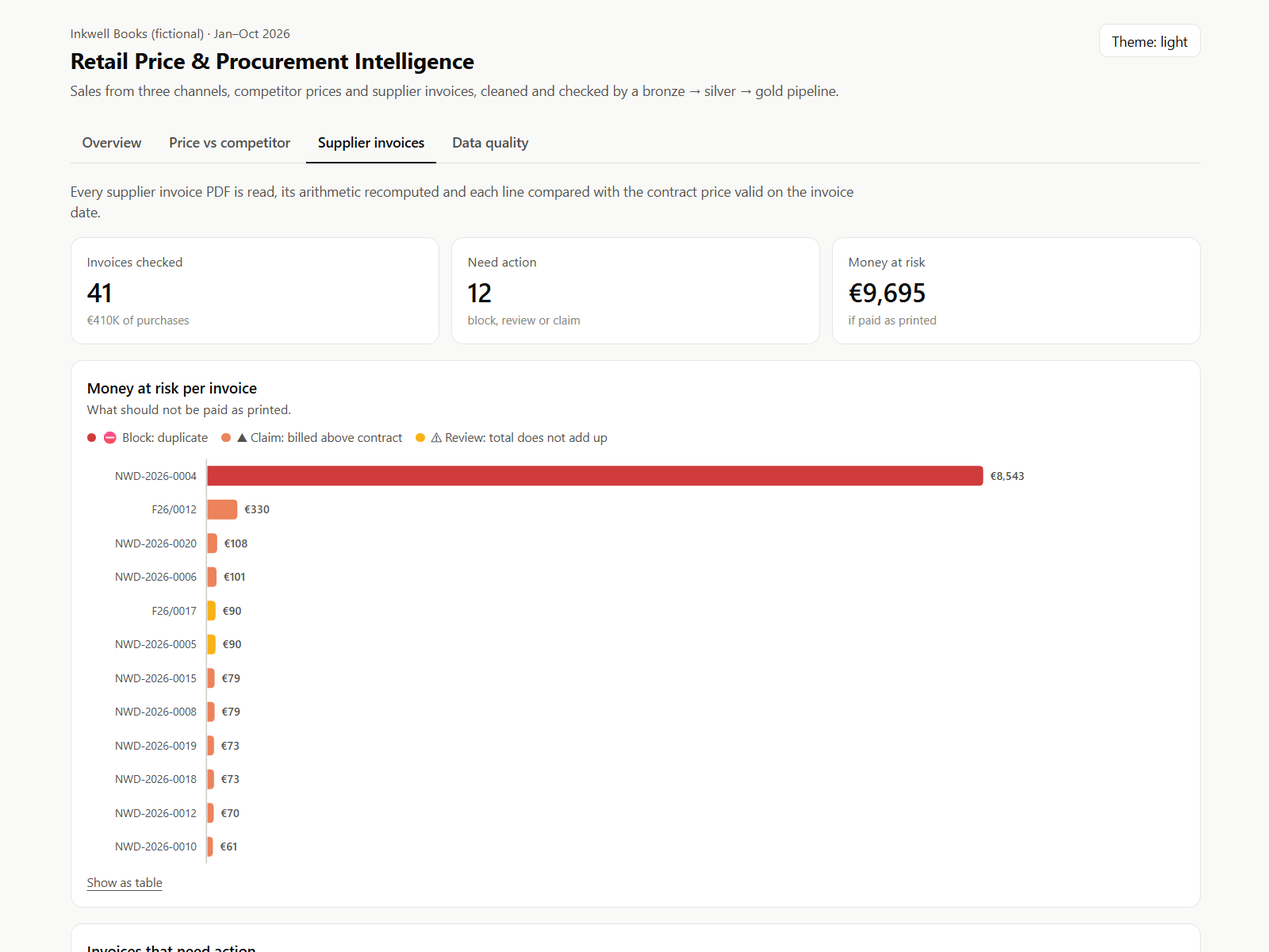
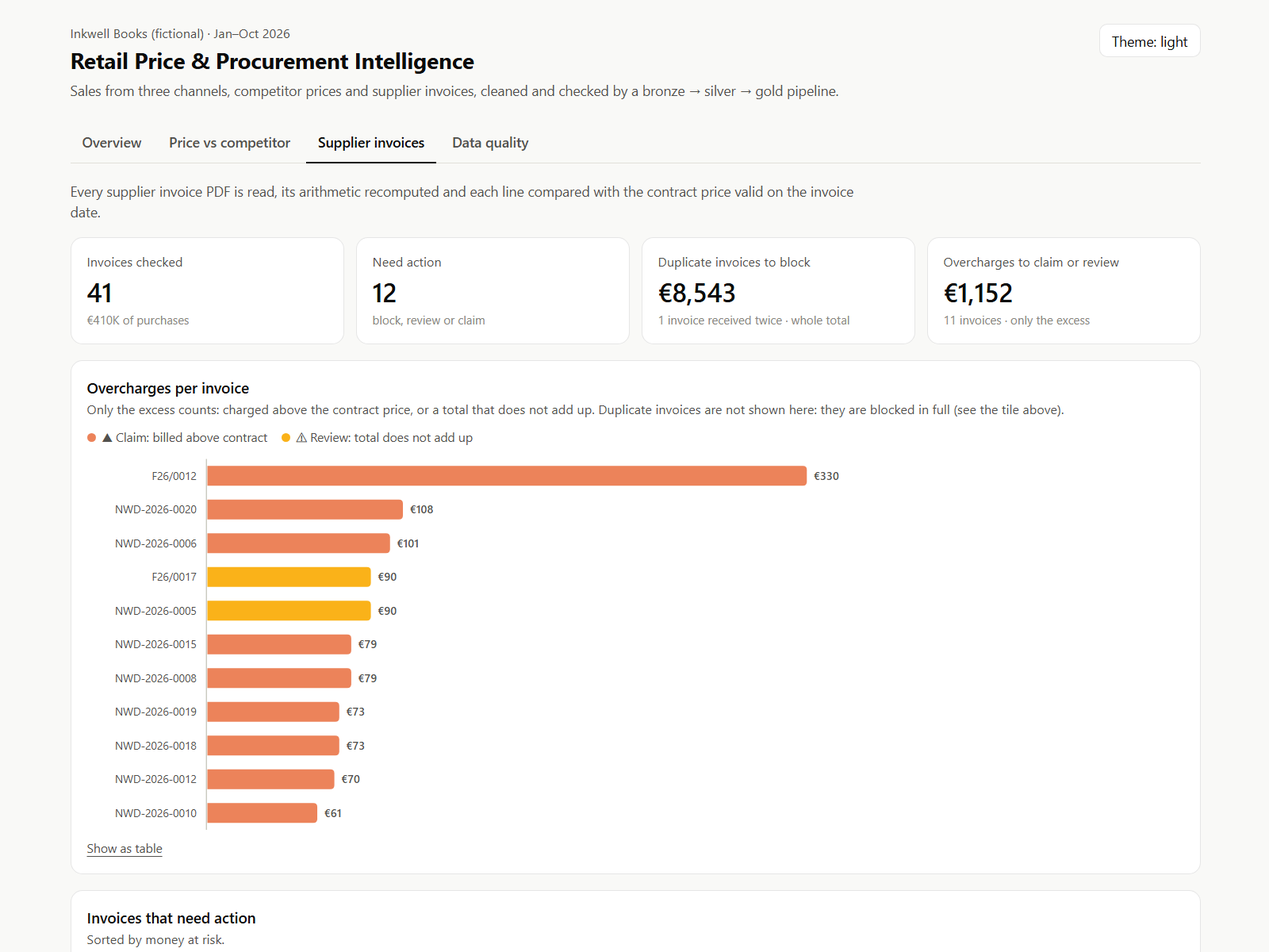
Separate duplicate invoices from overcharges in the invoices tab
A duplicate puts its whole total at risk, an overcharge only its excess; on one scale the duplicate (8,543 EUR) flattened the 11 overcharges. Duplicates now have their own tile and the chart shows only overcharges (1,152 EUR) on their own scale.

diff --git a/docs/index.html b/docs/index.html
@@ -143,8 +143,9 @@ footer { color: var(--text-muted); font-size: 12.5px; margin-top: 28px; border-t
     <p class="lead">Every supplier invoice PDF is read, its arithmetic recomputed and each line compared with the
       contract price valid on the invoice date.</p>
     <div class="tiles" id="invoiceTiles"></div>
-    <div class="card" style="margin-bottom:16px"><h2>Money at risk per invoice</h2>
-      <p class="desc">What should not be paid as printed.</p>
+    <div class="card" style="margin-bottom:16px"><h2>Overcharges per invoice</h2>
+      <p class="desc">Only the excess counts: charged above the contract price, or a total that does not add up.
+        Duplicate invoices are not shown here: they are blocked in full (see the tile above).</p>
       <div class="legend" id="legInvoices"></div><div class="chart" id="chInvoices"></div></div>
     <div class="card"><h2>Invoices that need action</h2><p class="desc">Sorted by money at risk.</p>
       <div class="table-wrap" id="tblInvoices"></div></div>
@@ -171,7 +172,7 @@ footer { color: var(--text-muted); font-size: 12.5px; margin-top: 28px; border-t
 </div>
 
 <script>
-const DATA = {"generated":"2026-11-24","months":[{"year_month":"2026-01","net_revenue_eur":123844.83,"margin_eur":46636.0,"margin_pct":0.3766,"units_sold":2821,"units_returned":20,"orders":1960,"weighted_price_gap_pct":0.0321,"purchases_eur":43999.46,"invoice_amount_at_risk_eur":0.0},{"year_month":"2026-02","net_revenue_eur":78794.21,"margin_eur":29610.55,"margin_pct":0.3758,"units_sold":1841,"units_returned":14,"orders":1292,"weighted_price_gap_pct":0.0282,"purchases_eur":36486.26,"invoice_amount_at_risk_eur":8542.9},{"year_month":"2026-03","net_revenue_eur":90779.57,"margin_eur":34181.89,"margin_pct":0.3765,"units_sold":2097,"units_returned":20,"orders":1453,"weighted_price_gap_pct":0.0105,"purchases_eur":33962.09,"invoice_amount_at_risk_eur":190.55},{"year_month":"2026-04","net_revenue_eur":117697.83,"margin_eur":41757.43,"margin_pct":0.3548,"units_sold":2839,"units_returned":35,"orders":1946,"weighted_price_gap_pct":0.0073,"purchases_eur":40551.15,"invoice_amount_at_risk_eur":79.2},{"year_month":"2026-05","net_revenue_eur":100868.1,"margin_eur":36328.92,"margin_pct":0.3602,"units_sold":2398,"units_returned":26,"orders":1665,"weighted_price_gap_pct":0.0115,"purchases_eur":39393.7,"invoice_amount_at_risk_eur":60.5},{"year_month":"2026-06","net_revenue_eur":85634.14,"margin_eur":30569.54,"margin_pct":0.357,"units_sold":2032,"units_returned":19,"orders":1429,"weighted_price_gap_pct":0.0103,"purchases_eur":35794.82,"invoice_amount_at_risk_eur":399.94},{"year_month":"2026-07","net_revenue_eur":110920.63,"margin_eur":37993.24,"margin_pct":0.3425,"units_sold":2588,"units_returned":37,"orders":1764,"weighted_price_gap_pct":-0.0101,"purchases_eur":40670.2,"invoice_amount_at_risk_eur":0.0},{"year_month":"2026-08","net_revenue_eur":123659.66,"margin_eur":40404.46,"margin_pct":0.3267,"units_sold":2931,"units_returned":24,"orders":1979,"weighted_price_gap_pct":-0.0279,"purchases_eur":48105.24,"invoice_amount_at_risk_eur":79.2},{"year_month":"2026-09","net_revenue_eur":104201.21,"margin_eur":33814.52,"margin_pct":0.3245,"units_sold":2489,"units_returned":25,"orders":1732,"weighted_price_gap_pct":-0.033,"purchases_eur":46334.51,"invoice_amount_at_risk_eur":162.6},{"year_month":"2026-10","net_revenue_eur":110194.85,"margin_eur":36020.14,"margin_pct":0.3269,"units_sold":2655,"units_returned":35,"orders":1809,"weighted_price_gap_pct":-0.0288,"purchases_eur":44397.8,"invoice_amount_at_risk_eur":180.25}],"channel_months":[{"year_month":"2026-01","channel":"marketplace","net_revenue_eur":38753.31,"margin_eur":10776.14,"units":869},{"year_month":"2026-01","channel":"store","net_revenue_eur":20755.81,"margin_eur":8854.57,"units":469},{"year_month":"2026-01","channel":"web","net_revenue_eur":64335.71,"margin_eur":27005.29,"units":1463},{"year_month":"2026-02","channel":"marketplace","net_revenue_eur":24334.73,"margin_eur":6748.25,"units":577},{"year_month":"2026-02","channel":"store","net_revenue_eur":12156.37,"margin_eur":5117.66,"units":263},{"year_month":"2026-02","channel":"web","net_revenue_eur":42303.11,"margin_eur":17744.64,"units":987},{"year_month":"2026-03","channel":"marketplace","net_revenue_eur":27262.2,"margin_eur":7476.56,"units":630},{"year_month":"2026-03","channel":"store","net_revenue_eur":13842.89,"margin_eur":5865.77,"units":311},{"year_month":"2026-03","channel":"web","net_revenue_eur":49674.48,"margin_eur":20839.56,"units":1136},{"year_month":"2026-04","channel":"marketplace","net_revenue_eur":36206.51,"margin_eur":9231.78,"units":849},{"year_month":"2026-04","channel":"store","net_revenue_eur":17717.78,"margin_eur":7188.44,"units":422},{"year_month":"2026-04","channel":"web","net_revenue_eur":63773.54,"margin_eur":25337.21,"units":1533},{"year_month":"2026-05","channel":"marketplace","net_revenue_eur":29557.14,"margin_eur":7646.32,"units":686},{"year_month":"2026-05","channel":"store","net_revenue_eur":15544.41,"margin_eur":6410.67,"units":359},{"year_month":"2026-05","channel":"web","net_revenue_eur":55766.55,"margin_eur":22271.93,"units":1327},{"year_month":"2026-06","channel":"marketplace","net_revenue_eur":25014.12,"margin_eur":6416.56,"units":588},{"year_month":"2026-06","channel":"store","net_revenue_eur":12779.56,"margin_eur":5188.2,"units":294},{"year_month":"2026-06","channel":"web","net_revenue_eur":47840.46,"margin_eur":18964.78,"units":1131},{"year_month":"2026-07","channel":"marketplace","net_revenue_eur":34006.19,"margin_eur":8260.63,"units":781},{"year_month":"2026-07","channel":"store","net_revenue_eur":14883.75,"margin_eur":5830.27,"units":325},{"year_month":"2026-07","channel":"web","net_revenue_eur":62030.69,"margin_eur":23902.34,"units":1445},{"year_month":"2026-08","channel":"marketplace","net_revenue_eur":37790.74,"margin_eur":8575.06,"units":876},{"year_month":"2026-08","channel":"store","net_revenue_eur":18844.53,"margin_eur":7044.61,"units":447},{"year_month":"2026-08","channel":"web","net_revenue_eur":67024.39,"margin_eur":24784.79,"units":1584},{"year_month":"2026-09","channel":"marketplace","net_revenue_eur":32732.7,"margin_eur":7420.62,"units":780},{"year_month":"2026-09","channel":"store","net_revenue_eur":16181.77,"margin_eur":6075.75,"units":373},{"year_month":"2026-09","channel":"web","net_revenue_eur":55286.74,"margin_eur":20318.15,"units":1311},{"year_month":"2026-10","channel":"marketplace","net_revenue_eur":32815.2,"margin_eur":7328.06,"units":780},{"year_month":"2026-10","channel":"store","net_revenue_eur":16842.01,"margin_eur":6313.41,"units":399},{"year_month":"2026-10","channel":"web","net_revenue_eur":60537.64,"margin_eur":22378.67,"units":1441}],"weekly_gap":[{"week_start":"2026-01-05","gap":0.029,"units":645},{"week_start":"2026-01-12","gap":0.0323,"units":619},{"week_start":"2026-01-19","gap":0.0315,"units":629},{"week_start":"2026-01-26","gap":0.0358,"units":607},{"week_start":"2026-02-02","gap":0.0354,"units":475},{"week_start":"2026-02-09","gap":0.0256,"units":439},{"week_start":"2026-02-16","gap":0.0313,"units":474},{"week_start":"2026-02-23","gap":0.0195,"units":440},{"week_start":"2026-03-02","gap":0.0139,"units":489},{"week_start":"2026-03-09","gap":0.0132,"units":508},{"week_start":"2026-03-16","gap":0.0056,"units":459},{"week_start":"2026-03-23","gap":0.0227,"units":461},{"week_start":"2026-03-30","gap":0.0,"units":606},{"week_start":"2026-04-06","gap":-0.0014,"units":689},{"week_start":"2026-04-13","gap":0.0079,"units":636},{"week_start":"2026-04-20","gap":0.0083,"units":681},{"week_start":"2026-04-27","gap":0.0152,"units":630},{"week_start":"2026-05-04","gap":0.0114,"units":491},{"week_start":"2026-05-11","gap":0.0217,"units":546},{"week_start":"2026-05-18","gap":0.0016,"units":508},{"week_start":"2026-05-25","gap":0.0107,"units":557},{"week_start":"2026-06-01","gap":0.0225,"units":483},{"week_start":"2026-06-08","gap":0.0297,"units":469},{"week_start":"2026-06-15","gap":0.0122,"units":446},{"week_start":"2026-06-22","gap":-0.0072,"units":504},{"week_start":"2026-06-29","gap":-0.0023,"units":556},{"week_start":"2026-07-06","gap":-0.0113,"units":600},{"week_start":"2026-07-13","gap":-0.0063,"units":610},{"week_start":"2026-07-20","gap":-0.0045,"units":587},{"week_start":"2026-07-27","gap":-0.0182,"units":614},{"week_start":"2026-08-03","gap":-0.0215,"units":679},{"week_start":"2026-08-10","gap":-0.0269,"units":659},{"week_start":"2026-08-17","gap":-0.0309,"units":648},{"week_start":"2026-08-24","gap":-0.037,"units":617},{"week_start":"2026-08-31","gap":-0.0238,"units":643},{"week_start":"2026-09-07","gap":-0.039,"units":545},{"week_start":"2026-09-14","gap":-0.023,"units":603},{"week_start":"2026-09-21","gap":-0.0361,"units":571},{"week_start":"2026-09-28","gap":-0.0348,"units":590},{"week_start":"2026-10-05","gap":-0.0183,"units":598},{"week_start":"2026-10-12","gap":-0.0368,"units":600},{"week_start":"2026-10-19","gap":-0.0236,"units":551},{"week_start":"2026-10-26","gap":-0.0369,"units":522}],"bands":[{"price_band":"aligned","product_weeks":1779,"avg_units":3.56,"avg_gap":0.002},{"price_band":"pricier","product_weeks":1519,"avg_units":3.15,"avg_gap":0.063},{"price_band":"much pricier","product_weeks":1430,"avg_units":2.82,"avg_gap":0.199},{"price_band":"cheaper","product_weeks":2510,"avg_units":3.64,"avg_gap":-0.127}],"pricier_now":[{"sku":"INK-00039","title":"Crazy Love: Overwhelmed by a Relentless God","our_price":61.49,"competitor_price":39.59,"gap":0.553,"units":1},{"sku":"INK-00130","title":"Shadow Rites (Jane Yellowrock #10)","our_price":25.49,"competitor_price":16.91,"gap":0.508,"units":2},{"sku":"INK-00031","title":"Can You Keep a Secret? (Fear Street Relaunch #4)","our_price":64.49,"competitor_price":42.81,"gap":0.506,"units":1},{"sku":"INK-00137","title":"Someone Like You (The Harrisons #2)","our_price":72.99,"competitor_price":48.52,"gap":0.504,"units":3},{"sku":"INK-00200","title":"The Shack","our_price":31.99,"competitor_price":21.59,"gap":0.482,"units":6},{"sku":"INK-00078","title":"It","our_price":29.49,"competitor_price":20.67,"gap":0.429,"units":2},{"sku":"INK-00008","title":"A Man Called Ove","our_price":41.99,"competitor_price":30.15,"gap":0.397,"units":5},{"sku":"INK-00234","title":"Wild Swans","our_price":19.49,"competitor_price":14.54,"gap":0.34,"units":4},{"sku":"INK-00059","title":"Fruits Basket, Vol. 6 (Fruits Basket #6)","our_price":22.99,"competitor_price":17.19,"gap":0.338,"units":2},{"sku":"INK-00084","title":"Kindle Paperwhite User's Guide","our_price":42.49,"competitor_price":31.84,"gap":0.336,"units":31},{"sku":"INK-00171","title":"The Firm","our_price":44.99,"competitor_price":34.09,"gap":0.32,"units":4},{"sku":"INK-00054","title":"Fifty Shades Freed (Fifty Shades #3)","our_price":17.99,"competitor_price":13.82,"gap":0.301,"units":14}],"invoices":[{"supplier_code":"NWD","invoice_number":"NWD-2026-0004","invoice_date":"2026-02-18","audit_status":"BLOCK - duplicate","total_printed":8542.9,"overbilled_lines":0,"amount_at_risk_eur":8542.9},{"supplier_code":"PLW","invoice_number":"F26/0012","invoice_date":"2026-06-17","audit_status":"CLAIM - billed above contract","total_printed":8580.16,"overbilled_lines":15,"amount_at_risk_eur":330.04},{"supplier_code":"NWD","invoice_number":"NWD-2026-0020","invoice_date":"2026-10-16","audit_status":"CLAIM - billed above contract","total_printed":12194.25,"overbilled_lines":2,"amount_at_risk_eur":107.65},{"supplier_code":"NWD","invoice_number":"NWD-2026-0006","invoice_date":"2026-03-16","audit_status":"CLAIM - billed above contract","total_printed":9390.85,"overbilled_lines":2,"amount_at_risk_eur":100.55},{"supplier_code":"PLW","invoice_number":"F26/0017","invoice_date":"2026-09-02","audit_status":"REVIEW - total does not add up","total_printed":12675.82,"overbilled_lines":0,"amount_at_risk_eur":90.0},{"supplier_code":"NWD","invoice_number":"NWD-2026-0005","invoice_date":"2026-03-01","audit_status":"REVIEW - total does not add up","total_printed":9125.1,"overbilled_lines":0,"amount_at_risk_eur":90.0},{"supplier_code":"NWD","invoice_number":"NWD-2026-0015","invoice_date":"2026-08-03","audit_status":"CLAIM - billed above contract","total_printed":10615.1,"overbilled_lines":1,"amount_at_risk_eur":79.2},{"supplier_code":"NWD","invoice_number":"NWD-2026-0008","invoice_date":"2026-04-17","audit_status":"CLAIM - billed above contract","total_printed":13143.5,"overbilled_lines":1,"amount_at_risk_eur":79.2},{"supplier_code":"NWD","invoice_number":"NWD-2026-0019","invoice_date":"2026-10-02","audit_status":"CLAIM - billed above contract","total_printed":12027.6,"overbilled_lines":1,"amount_at_risk_eur":72.6},{"supplier_code":"NWD","invoice_number":"NWD-2026-0018","invoice_date":"2026-09-16","audit_status":"CLAIM - billed above contract","total_printed":11194.75,"overbilled_lines":1,"amount_at_risk_eur":72.6},{"supplier_code":"NWD","invoice_number":"NWD-2026-0012","invoice_date":"2026-06-17","audit_status":"CLAIM - billed above contract","total_printed":9155.7,"overbilled_lines":1,"amount_at_risk_eur":69.9},{"supplier_code":"NWD","invoice_number":"NWD-2026-0010","invoice_date":"2026-05-18","audit_status":"CLAIM - billed above contract","total_printed":8364.4,"overbilled_lines":1,"amount_at_risk_eur":60.5}],"invoice_totals":{"invoices":41,"need_action":12,"at_risk":9695.14,"purchases":409695.23},"quality":[{"source":"competitor_prices_daily","rule":"price_too_old_not_used","rows_checked":72480,"rows_failed":960,"failed_share":0.0132,"action":"left empty rather than use an old value"},{"source":"competitor_runs","rule":"missing_run","rows_checked":85,"rows_failed":2,"failed_share":0.0235,"action":"previous observation used"},{"source":"competitor_runs","rule":"partial_run","rows_checked":85,"rows_failed":1,"failed_share":0.0118,"action":"previous observation used"},{"source":"competitor_snapshots","rule":"price_outlier","rows_checked":84600,"rows_failed":18,"failed_share":0.0002,"action":"observation ignored"},{"source":"competitor_snapshots","rule":"price_zero_or_negative","rows_checked":84600,"rows_failed":16,"failed_share":0.0002,"action":"observation ignored"},{"source":"erp_products","rule":"competitor_link_title_match","rows_checked":240,"rows_failed":45,"failed_share":0.1875,"action":"fixed automatically"},{"source":"fx_rates","rule":"rate_carried_forward","rows_checked":303,"rows_failed":86,"failed_share":0.2838,"action":"filled with last business-day rate"},{"source":"sales_marketplace","rule":"matched_by_title_exact","rows_checked":7199,"rows_failed":697,"failed_share":0.0968,"action":"fixed automatically"},{"source":"sales_marketplace","rule":"duplicate_line","rows_checked":7199,"rows_failed":590,"failed_share":0.082,"action":"dropped (the valid copy from the latest export kept)"},{"source":"sales_marketplace","rule":"price_check_used_weekly_median","rows_checked":7199,"rows_failed":441,"failed_share":0.0613,"action":"no ERP price history: compared with that week's median price"},{"source":"sales_marketplace","rule":"price_check_used_current_list_price","rows_checked":7199,"rows_failed":150,"failed_share":0.0208,"action":"no history and too few sales: compared with today's list price"},{"source":"sales_store","rule":"matched_by_title_exact","rows_checked":3289,"rows_failed":3047,"failed_share":0.9264,"action":"fixed automatically"},{"source":"sales_store","rule":"price_check_used_weekly_median","rows_checked":3289,"rows_failed":215,"failed_share":0.0654,"action":"no ERP price history: compared with that week's median price"},{"source":"sales_store","rule":"matched_by_title_fuzzy","rows_checked":3289,"rows_failed":193,"failed_share":0.0587,"action":"fixed automatically"},{"source":"sales_store","rule":"price_check_used_current_list_price","rows_checked":3289,"rows_failed":61,"failed_share":0.0185,"action":"no history and too few sales: compared with today's list price"},{"source":"sales_store","rule":"unknown_product","rows_checked":3289,"rows_failed":25,"failed_share":0.0076,"action":"quarantined"},{"source":"sales_store","rule":"price_outlier","rows_checked":3289,"rows_failed":16,"failed_share":0.0049,"action":"quarantined"},{"source":"sales_store","rule":"missing_quantity","rows_checked":3289,"rows_failed":8,"failed_share":0.0024,"action":"quarantined"},{"source":"sales_web","rule":"price_check_used_weekly_median","rows_checked":12270,"rows_failed":780,"failed_share":0.0636,"action":"no ERP price history: compared with that week's median price"},{"source":"sales_web","rule":"price_check_used_current_list_price","rows_checked":12270,"rows_failed":246,"failed_share":0.02,"action":"no history and too few sales: compared with today's list price"},{"source":"supplier_invoices","rule":"line_billed_above_contract","rows_checked":41,"rows_failed":25,"failed_share":0.6098,"action":"listed in invoice audit"},{"source":"supplier_invoices","rule":"total_does_not_add_up","rows_checked":41,"rows_failed":2,"failed_share":0.0488,"action":"listed in invoice audit"},{"source":"supplier_invoices","rule":"duplicate_invoice","rows_checked":41,"rows_failed":1,"failed_share":0.0244,"action":"listed in invoice audit"}],"quarantine":[{"dq_issue":"duplicate_line","lines":590},{"dq_issue":"unknown_product","lines":25},{"dq_issue":"price_outlier","lines":16},{"dq_issue":"missing_quantity","lines":8}],"reconciliation":{"raw_lines":22758,"clean_lines":22119,"quarantined_lines":639,"files_loaded":212}};
+const DATA = {"generated":"2026-11-24","months":[{"year_month":"2026-01","net_revenue_eur":123844.83,"margin_eur":46636.0,"margin_pct":0.3766,"units_sold":2821,"units_returned":20,"orders":1960,"weighted_price_gap_pct":0.0321,"purchases_eur":43999.46,"invoice_amount_at_risk_eur":0.0},{"year_month":"2026-02","net_revenue_eur":78794.21,"margin_eur":29610.55,"margin_pct":0.3758,"units_sold":1841,"units_returned":14,"orders":1292,"weighted_price_gap_pct":0.0282,"purchases_eur":36486.26,"invoice_amount_at_risk_eur":8542.9},{"year_month":"2026-03","net_revenue_eur":90779.57,"margin_eur":34181.89,"margin_pct":0.3765,"units_sold":2097,"units_returned":20,"orders":1453,"weighted_price_gap_pct":0.0105,"purchases_eur":33962.09,"invoice_amount_at_risk_eur":190.55},{"year_month":"2026-04","net_revenue_eur":117697.83,"margin_eur":41757.43,"margin_pct":0.3548,"units_sold":2839,"units_returned":35,"orders":1946,"weighted_price_gap_pct":0.0073,"purchases_eur":40551.15,"invoice_amount_at_risk_eur":79.2},{"year_month":"2026-05","net_revenue_eur":100868.1,"margin_eur":36328.92,"margin_pct":0.3602,"units_sold":2398,"units_returned":26,"orders":1665,"weighted_price_gap_pct":0.0115,"purchases_eur":39393.7,"invoice_amount_at_risk_eur":60.5},{"year_month":"2026-06","net_revenue_eur":85634.14,"margin_eur":30569.54,"margin_pct":0.357,"units_sold":2032,"units_returned":19,"orders":1429,"weighted_price_gap_pct":0.0103,"purchases_eur":35794.82,"invoice_amount_at_risk_eur":399.94},{"year_month":"2026-07","net_revenue_eur":110920.63,"margin_eur":37993.24,"margin_pct":0.3425,"units_sold":2588,"units_returned":37,"orders":1764,"weighted_price_gap_pct":-0.0101,"purchases_eur":40670.2,"invoice_amount_at_risk_eur":0.0},{"year_month":"2026-08","net_revenue_eur":123659.66,"margin_eur":40404.46,"margin_pct":0.3267,"units_sold":2931,"units_returned":24,"orders":1979,"weighted_price_gap_pct":-0.0279,"purchases_eur":48105.24,"invoice_amount_at_risk_eur":79.2},{"year_month":"2026-09","net_revenue_eur":104201.21,"margin_eur":33814.52,"margin_pct":0.3245,"units_sold":2489,"units_returned":25,"orders":1732,"weighted_price_gap_pct":-0.033,"purchases_eur":46334.51,"invoice_amount_at_risk_eur":162.6},{"year_month":"2026-10","net_revenue_eur":110194.85,"margin_eur":36020.14,"margin_pct":0.3269,"units_sold":2655,"units_returned":35,"orders":1809,"weighted_price_gap_pct":-0.0288,"purchases_eur":44397.8,"invoice_amount_at_risk_eur":180.25}],"channel_months":[{"year_month":"2026-01","channel":"marketplace","net_revenue_eur":38753.31,"margin_eur":10776.14,"units":869},{"year_month":"2026-01","channel":"store","net_revenue_eur":20755.81,"margin_eur":8854.57,"units":469},{"year_month":"2026-01","channel":"web","net_revenue_eur":64335.71,"margin_eur":27005.29,"units":1463},{"year_month":"2026-02","channel":"marketplace","net_revenue_eur":24334.73,"margin_eur":6748.25,"units":577},{"year_month":"2026-02","channel":"store","net_revenue_eur":12156.37,"margin_eur":5117.66,"units":263},{"year_month":"2026-02","channel":"web","net_revenue_eur":42303.11,"margin_eur":17744.64,"units":987},{"year_month":"2026-03","channel":"marketplace","net_revenue_eur":27262.2,"margin_eur":7476.56,"units":630},{"year_month":"2026-03","channel":"store","net_revenue_eur":13842.89,"margin_eur":5865.77,"units":311},{"year_month":"2026-03","channel":"web","net_revenue_eur":49674.48,"margin_eur":20839.56,"units":1136},{"year_month":"2026-04","channel":"marketplace","net_revenue_eur":36206.51,"margin_eur":9231.78,"units":849},{"year_month":"2026-04","channel":"store","net_revenue_eur":17717.78,"margin_eur":7188.44,"units":422},{"year_month":"2026-04","channel":"web","net_revenue_eur":63773.54,"margin_eur":25337.21,"units":1533},{"year_month":"2026-05","channel":"marketplace","net_revenue_eur":29557.14,"margin_eur":7646.32,"units":686},{"year_month":"2026-05","channel":"store","net_revenue_eur":15544.41,"margin_eur":6410.67,"units":359},{"year_month":"2026-05","channel":"web","net_revenue_eur":55766.55,"margin_eur":22271.93,"units":1327},{"year_month":"2026-06","channel":"marketplace","net_revenue_eur":25014.12,"margin_eur":6416.56,"units":588},{"year_month":"2026-06","channel":"store","net_revenue_eur":12779.56,"margin_eur":5188.2,"units":294},{"year_month":"2026-06","channel":"web","net_revenue_eur":47840.46,"margin_eur":18964.78,"units":1131},{"year_month":"2026-07","channel":"marketplace","net_revenue_eur":34006.19,"margin_eur":8260.63,"units":781},{"year_month":"2026-07","channel":"store","net_revenue_eur":14883.75,"margin_eur":5830.27,"units":325},{"year_month":"2026-07","channel":"web","net_revenue_eur":62030.69,"margin_eur":23902.34,"units":1445},{"year_month":"2026-08","channel":"marketplace","net_revenue_eur":37790.74,"margin_eur":8575.06,"units":876},{"year_month":"2026-08","channel":"store","net_revenue_eur":18844.53,"margin_eur":7044.61,"units":447},{"year_month":"2026-08","channel":"web","net_revenue_eur":67024.39,"margin_eur":24784.79,"units":1584},{"year_month":"2026-09","channel":"marketplace","net_revenue_eur":32732.7,"margin_eur":7420.62,"units":780},{"year_month":"2026-09","channel":"store","net_revenue_eur":16181.77,"margin_eur":6075.75,"units":373},{"year_month":"2026-09","channel":"web","net_revenue_eur":55286.74,"margin_eur":20318.15,"units":1311},{"year_month":"2026-10","channel":"marketplace","net_revenue_eur":32815.2,"margin_eur":7328.06,"units":780},{"year_month":"2026-10","channel":"store","net_revenue_eur":16842.01,"margin_eur":6313.41,"units":399},{"year_month":"2026-10","channel":"web","net_revenue_eur":60537.64,"margin_eur":22378.67,"units":1441}],"weekly_gap":[{"week_start":"2026-01-05","gap":0.029,"units":645},{"week_start":"2026-01-12","gap":0.0323,"units":619},{"week_start":"2026-01-19","gap":0.0315,"units":629},{"week_start":"2026-01-26","gap":0.0358,"units":607},{"week_start":"2026-02-02","gap":0.0354,"units":475},{"week_start":"2026-02-09","gap":0.0256,"units":439},{"week_start":"2026-02-16","gap":0.0313,"units":474},{"week_start":"2026-02-23","gap":0.0195,"units":440},{"week_start":"2026-03-02","gap":0.0139,"units":489},{"week_start":"2026-03-09","gap":0.0132,"units":508},{"week_start":"2026-03-16","gap":0.0056,"units":459},{"week_start":"2026-03-23","gap":0.0227,"units":461},{"week_start":"2026-03-30","gap":0.0,"units":606},{"week_start":"2026-04-06","gap":-0.0014,"units":689},{"week_start":"2026-04-13","gap":0.0079,"units":636},{"week_start":"2026-04-20","gap":0.0083,"units":681},{"week_start":"2026-04-27","gap":0.0152,"units":630},{"week_start":"2026-05-04","gap":0.0114,"units":491},{"week_start":"2026-05-11","gap":0.0217,"units":546},{"week_start":"2026-05-18","gap":0.0016,"units":508},{"week_start":"2026-05-25","gap":0.0107,"units":557},{"week_start":"2026-06-01","gap":0.0225,"units":483},{"week_start":"2026-06-08","gap":0.0297,"units":469},{"week_start":"2026-06-15","gap":0.0122,"units":446},{"week_start":"2026-06-22","gap":-0.0072,"units":504},{"week_start":"2026-06-29","gap":-0.0023,"units":556},{"week_start":"2026-07-06","gap":-0.0113,"units":600},{"week_start":"2026-07-13","gap":-0.0063,"units":610},{"week_start":"2026-07-20","gap":-0.0045,"units":587},{"week_start":"2026-07-27","gap":-0.0182,"units":614},{"week_start":"2026-08-03","gap":-0.0215,"units":679},{"week_start":"2026-08-10","gap":-0.0269,"units":659},{"week_start":"2026-08-17","gap":-0.0309,"units":648},{"week_start":"2026-08-24","gap":-0.037,"units":617},{"week_start":"2026-08-31","gap":-0.0238,"units":643},{"week_start":"2026-09-07","gap":-0.039,"units":545},{"week_start":"2026-09-14","gap":-0.023,"units":603},{"week_start":"2026-09-21","gap":-0.0361,"units":571},{"week_start":"2026-09-28","gap":-0.0348,"units":590},{"week_start":"2026-10-05","gap":-0.0183,"units":598},{"week_start":"2026-10-12","gap":-0.0368,"units":600},{"week_start":"2026-10-19","gap":-0.0236,"units":551},{"week_start":"2026-10-26","gap":-0.0369,"units":522}],"bands":[{"price_band":"aligned","product_weeks":1779,"avg_units":3.56,"avg_gap":0.002},{"price_band":"pricier","product_weeks":1519,"avg_units":3.15,"avg_gap":0.063},{"price_band":"cheaper","product_weeks":2510,"avg_units":3.64,"avg_gap":-0.127},{"price_band":"much pricier","product_weeks":1430,"avg_units":2.82,"avg_gap":0.199}],"pricier_now":[{"sku":"INK-00039","title":"Crazy Love: Overwhelmed by a Relentless God","our_price":61.49,"competitor_price":39.59,"gap":0.553,"units":1},{"sku":"INK-00130","title":"Shadow Rites (Jane Yellowrock #10)","our_price":25.49,"competitor_price":16.91,"gap":0.508,"units":2},{"sku":"INK-00031","title":"Can You Keep a Secret? (Fear Street Relaunch #4)","our_price":64.49,"competitor_price":42.81,"gap":0.506,"units":1},{"sku":"INK-00137","title":"Someone Like You (The Harrisons #2)","our_price":72.99,"competitor_price":48.52,"gap":0.504,"units":3},{"sku":"INK-00200","title":"The Shack","our_price":31.99,"competitor_price":21.59,"gap":0.482,"units":6},{"sku":"INK-00078","title":"It","our_price":29.49,"competitor_price":20.67,"gap":0.429,"units":2},{"sku":"INK-00008","title":"A Man Called Ove","our_price":41.99,"competitor_price":30.15,"gap":0.397,"units":5},{"sku":"INK-00234","title":"Wild Swans","our_price":19.49,"competitor_price":14.54,"gap":0.34,"units":4},{"sku":"INK-00059","title":"Fruits Basket, Vol. 6 (Fruits Basket #6)","our_price":22.99,"competitor_price":17.19,"gap":0.338,"units":2},{"sku":"INK-00084","title":"Kindle Paperwhite User's Guide","our_price":42.49,"competitor_price":31.84,"gap":0.336,"units":31},{"sku":"INK-00171","title":"The Firm","our_price":44.99,"competitor_price":34.09,"gap":0.32,"units":4},{"sku":"INK-00054","title":"Fifty Shades Freed (Fifty Shades #3)","our_price":17.99,"competitor_price":13.82,"gap":0.301,"units":14}],"invoices":[{"supplier_code":"NWD","invoice_number":"NWD-2026-0004","invoice_date":"2026-02-18","audit_status":"BLOCK - duplicate","total_printed":8542.9,"overbilled_lines":0,"amount_at_risk_eur":8542.9},{"supplier_code":"PLW","invoice_number":"F26/0012","invoice_date":"2026-06-17","audit_status":"CLAIM - billed above contract","total_printed":8580.16,"overbilled_lines":15,"amount_at_risk_eur":330.04},{"supplier_code":"NWD","invoice_number":"NWD-2026-0020","invoice_date":"2026-10-16","audit_status":"CLAIM - billed above contract","total_printed":12194.25,"overbilled_lines":2,"amount_at_risk_eur":107.65},{"supplier_code":"NWD","invoice_number":"NWD-2026-0006","invoice_date":"2026-03-16","audit_status":"CLAIM - billed above contract","total_printed":9390.85,"overbilled_lines":2,"amount_at_risk_eur":100.55},{"supplier_code":"PLW","invoice_number":"F26/0017","invoice_date":"2026-09-02","audit_status":"REVIEW - total does not add up","total_printed":12675.82,"overbilled_lines":0,"amount_at_risk_eur":90.0},{"supplier_code":"NWD","invoice_number":"NWD-2026-0005","invoice_date":"2026-03-01","audit_status":"REVIEW - total does not add up","total_printed":9125.1,"overbilled_lines":0,"amount_at_risk_eur":90.0},{"supplier_code":"NWD","invoice_number":"NWD-2026-0015","invoice_date":"2026-08-03","audit_status":"CLAIM - billed above contract","total_printed":10615.1,"overbilled_lines":1,"amount_at_risk_eur":79.2},{"supplier_code":"NWD","invoice_number":"NWD-2026-0008","invoice_date":"2026-04-17","audit_status":"CLAIM - billed above contract","total_printed":13143.5,"overbilled_lines":1,"amount_at_risk_eur":79.2},{"supplier_code":"NWD","invoice_number":"NWD-2026-0019","invoice_date":"2026-10-02","audit_status":"CLAIM - billed above contract","total_printed":12027.6,"overbilled_lines":1,"amount_at_risk_eur":72.6},{"supplier_code":"NWD","invoice_number":"NWD-2026-0018","invoice_date":"2026-09-16","audit_status":"CLAIM - billed above contract","total_printed":11194.75,"overbilled_lines":1,"amount_at_risk_eur":72.6},{"supplier_code":"NWD","invoice_number":"NWD-2026-0012","invoice_date":"2026-06-17","audit_status":"CLAIM - billed above contract","total_printed":9155.7,"overbilled_lines":1,"amount_at_risk_eur":69.9},{"supplier_code":"NWD","invoice_number":"NWD-2026-0010","invoice_date":"2026-05-18","audit_status":"CLAIM - billed above contract","total_printed":8364.4,"overbilled_lines":1,"amount_at_risk_eur":60.5}],"invoice_totals":{"invoices":41,"need_action":12,"at_risk":9695.14,"purchases":409695.23},"quality":[{"source":"competitor_prices_daily","rule":"price_too_old_not_used","rows_checked":72480,"rows_failed":960,"failed_share":0.0132,"action":"left empty rather than use an old value"},{"source":"competitor_runs","rule":"missing_run","rows_checked":85,"rows_failed":2,"failed_share":0.0235,"action":"previous observation used"},{"source":"competitor_runs","rule":"partial_run","rows_checked":85,"rows_failed":1,"failed_share":0.0118,"action":"previous observation used"},{"source":"competitor_snapshots","rule":"price_outlier","rows_checked":84600,"rows_failed":18,"failed_share":0.0002,"action":"observation ignored"},{"source":"competitor_snapshots","rule":"price_zero_or_negative","rows_checked":84600,"rows_failed":16,"failed_share":0.0002,"action":"observation ignored"},{"source":"erp_products","rule":"competitor_link_title_match","rows_checked":240,"rows_failed":45,"failed_share":0.1875,"action":"fixed automatically"},{"source":"fx_rates","rule":"rate_carried_forward","rows_checked":303,"rows_failed":86,"failed_share":0.2838,"action":"filled with last business-day rate"},{"source":"sales_marketplace","rule":"matched_by_title_exact","rows_checked":7199,"rows_failed":697,"failed_share":0.0968,"action":"fixed automatically"},{"source":"sales_marketplace","rule":"duplicate_line","rows_checked":7199,"rows_failed":590,"failed_share":0.082,"action":"dropped (the valid copy from the latest export kept)"},{"source":"sales_marketplace","rule":"price_check_used_weekly_median","rows_checked":7199,"rows_failed":441,"failed_share":0.0613,"action":"no ERP price history: compared with that week's median price"},{"source":"sales_marketplace","rule":"price_check_used_current_list_price","rows_checked":7199,"rows_failed":150,"failed_share":0.0208,"action":"no history and too few sales: compared with today's list price"},{"source":"sales_store","rule":"matched_by_title_exact","rows_checked":3289,"rows_failed":3047,"failed_share":0.9264,"action":"fixed automatically"},{"source":"sales_store","rule":"price_check_used_weekly_median","rows_checked":3289,"rows_failed":215,"failed_share":0.0654,"action":"no ERP price history: compared with that week's median price"},{"source":"sales_store","rule":"matched_by_title_fuzzy","rows_checked":3289,"rows_failed":193,"failed_share":0.0587,"action":"fixed automatically"},{"source":"sales_store","rule":"price_check_used_current_list_price","rows_checked":3289,"rows_failed":61,"failed_share":0.0185,"action":"no history and too few sales: compared with today's list price"},{"source":"sales_store","rule":"unknown_product","rows_checked":3289,"rows_failed":25,"failed_share":0.0076,"action":"quarantined"},{"source":"sales_store","rule":"price_outlier","rows_checked":3289,"rows_failed":16,"failed_share":0.0049,"action":"quarantined"},{"source":"sales_store","rule":"missing_quantity","rows_checked":3289,"rows_failed":8,"failed_share":0.0024,"action":"quarantined"},{"source":"sales_web","rule":"price_check_used_weekly_median","rows_checked":12270,"rows_failed":780,"failed_share":0.0636,"action":"no ERP price history: compared with that week's median price"},{"source":"sales_web","rule":"price_check_used_current_list_price","rows_checked":12270,"rows_failed":246,"failed_share":0.02,"action":"no history and too few sales: compared with today's list price"},{"source":"supplier_invoices","rule":"line_billed_above_contract","rows_checked":41,"rows_failed":25,"failed_share":0.6098,"action":"listed in invoice audit"},{"source":"supplier_invoices","rule":"total_does_not_add_up","rows_checked":41,"rows_failed":2,"failed_share":0.0488,"action":"listed in invoice audit"},{"source":"supplier_invoices","rule":"duplicate_invoice","rows_checked":41,"rows_failed":1,"failed_share":0.0244,"action":"listed in invoice audit"}],"quarantine":[{"dq_issue":"duplicate_line","lines":590},{"dq_issue":"unknown_product","lines":25},{"dq_issue":"price_outlier","lines":16},{"dq_issue":"missing_quantity","lines":8}],"reconciliation":{"raw_lines":22758,"clean_lines":22119,"quarantined_lines":639,"files_loaded":212}};
 
 /* ------------------------------------------------------------------ formatting */
 const eur = (v, d = 0) => "€" + Number(v).toLocaleString("en-GB", { minimumFractionDigits: d, maximumFractionDigits: d });
@@ -455,17 +456,24 @@ function renderInvoices() {
   document.getElementById("invoiceTiles").replaceChildren();
   tile("invoiceTiles", { label: "Invoices checked", value: num(T.invoices), note: eurCompact(T.purchases) + " of purchases" });
   tile("invoiceTiles", { label: "Need action", value: num(T.need_action), note: "block, review or claim" });
-  tile("invoiceTiles", { label: "Money at risk", value: eur(T.at_risk), note: "if paid as printed" });
-  const used = [...new Set(I.map(r => r.audit_status))];
+  // two different kinds of risk, kept apart: a duplicate puts its whole total at risk,
+  // an overcharge only its excess, so they cannot share one scale
+  const dup = I.filter(r => r.audit_status.startsWith("BLOCK")), over = I.filter(r => !r.audit_status.startsWith("BLOCK"));
+  const total = rows => rows.reduce((s, r) => s + r.amount_at_risk_eur, 0);
+  tile("invoiceTiles", { label: "Duplicate invoices to block", value: eur(total(dup)),
+    note: `${dup.length} invoice${dup.length === 1 ? "" : "s"} received twice · whole total` });
+  tile("invoiceTiles", { label: "Overcharges to claim or review", value: eur(total(over)),
+    note: `${over.length} invoices · only the excess` });
+  const used = [...new Set(over.map(r => r.audit_status))];
   const legBox = document.getElementById("legInvoices"); legBox.replaceChildren();
   for (const s of used) { const sp = el("span"); sp.append(statusChip(s)); legBox.append(sp); }
-  document.getElementById("chInvoices").dataset.label = "Bars: money at risk per invoice, coloured by status";
-  barChartH("chInvoices", { labelWidth: 120, rows: I.map(r => ({
+  document.getElementById("chInvoices").dataset.label = "Bars: overcharge per invoice, coloured by status";
+  barChartH("chInvoices", { labelWidth: 120, rows: over.map(r => ({
       label: r.invoice_number, value: r.amount_at_risk_eur, color: css((STATUS[r.audit_status] || {}).token || "--text-muted"),
       tip: [{ label: (STATUS[r.audit_status] || { short: r.audit_status }).short, value: eur(r.amount_at_risk_eur, 2), color: css((STATUS[r.audit_status] || {}).token || "--text-muted") },
             { label: "invoice total", value: eur(r.total_printed, 2) }, { label: "date", value: r.invoice_date }] })),
     xFormat: v => eur(v) });
-  withTableToggle("chInvoices", [{ label: "Invoice", key: "invoice_number" }, { label: "Money at risk", num: true, render: r => eur(r.amount_at_risk_eur, 2) }], I);
+  withTableToggle("chInvoices", [{ label: "Invoice", key: "invoice_number" }, { label: "Overcharge", num: true, render: r => eur(r.amount_at_risk_eur, 2) }], over);
   tableView(document.getElementById("tblInvoices"), [
     { label: "Supplier", key: "supplier_code" }, { label: "Invoice", key: "invoice_number" }, { label: "Date", key: "invoice_date" },
     { label: "Status", render: r => statusChip(r.audit_status) }, { label: "Lines above contract", num: true, key: "overbilled_lines" },

diff --git a/dashboard/template.html b/dashboard/template.html
@@ -143,8 +143,9 @@ footer { color: var(--text-muted); font-size: 12.5px; margin-top: 28px; border-t
     <p class="lead">Every supplier invoice PDF is read, its arithmetic recomputed and each line compared with the
       contract price valid on the invoice date.</p>
     <div class="tiles" id="invoiceTiles"></div>
-    <div class="card" style="margin-bottom:16px"><h2>Money at risk per invoice</h2>
-      <p class="desc">What should not be paid as printed.</p>
+    <div class="card" style="margin-bottom:16px"><h2>Overcharges per invoice</h2>
+      <p class="desc">Only the excess counts: charged above the contract price, or a total that does not add up.
+        Duplicate invoices are not shown here: they are blocked in full (see the tile above).</p>
       <div class="legend" id="legInvoices"></div><div class="chart" id="chInvoices"></div></div>
     <div class="card"><h2>Invoices that need action</h2><p class="desc">Sorted by money at risk.</p>
       <div class="table-wrap" id="tblInvoices"></div></div>
@@ -455,17 +456,24 @@ function renderInvoices() {
   document.getElementById("invoiceTiles").replaceChildren();
   tile("invoiceTiles", { label: "Invoices checked", value: num(T.invoices), note: eurCompact(T.purchases) + " of purchases" });
   tile("invoiceTiles", { label: "Need action", value: num(T.need_action), note: "block, review or claim" });
-  tile("invoiceTiles", { label: "Money at risk", value: eur(T.at_risk), note: "if paid as printed" });
-  const used = [...new Set(I.map(r => r.audit_status))];
+  // two different kinds of risk, kept apart: a duplicate puts its whole total at risk,
+  // an overcharge only its excess, so they cannot share one scale
+  const dup = I.filter(r => r.audit_status.startsWith("BLOCK")), over = I.filter(r => !r.audit_status.startsWith("BLOCK"));
+  const total = rows => rows.reduce((s, r) => s + r.amount_at_risk_eur, 0);
+  tile("invoiceTiles", { label: "Duplicate invoices to block", value: eur(total(dup)),
+    note: `${dup.length} invoice${dup.length === 1 ? "" : "s"} received twice · whole total` });
+  tile("invoiceTiles", { label: "Overcharges to claim or review", value: eur(total(over)),
+    note: `${over.length} invoices · only the excess` });
+  const used = [...new Set(over.map(r => r.audit_status))];
   const legBox = document.getElementById("legInvoices"); legBox.replaceChildren();
   for (const s of used) { const sp = el("span"); sp.append(statusChip(s)); legBox.append(sp); }
-  document.getElementById("chInvoices").dataset.label = "Bars: money at risk per invoice, coloured by status";
-  barChartH("chInvoices", { labelWidth: 120, rows: I.map(r => ({
+  document.getElementById("chInvoices").dataset.label = "Bars: overcharge per invoice, coloured by status";
+  barChartH("chInvoices", { labelWidth: 120, rows: over.map(r => ({
       label: r.invoice_number, value: r.amount_at_risk_eur, color: css((STATUS[r.audit_status] || {}).token || "--text-muted"),
       tip: [{ label: (STATUS[r.audit_status] || { short: r.audit_status }).short, value: eur(r.amount_at_risk_eur, 2), color: css((STATUS[r.audit_status] || {}).token || "--text-muted") },
             { label: "invoice total", value: eur(r.total_printed, 2) }, { label: "date", value: r.invoice_date }] })),
     xFormat: v => eur(v) });
-  withTableToggle("chInvoices", [{ label: "Invoice", key: "invoice_number" }, { label: "Money at risk", num: true, render: r => eur(r.amount_at_risk_eur, 2) }], I);
+  withTableToggle("chInvoices", [{ label: "Invoice", key: "invoice_number" }, { label: "Overcharge", num: true, render: r => eur(r.amount_at_risk_eur, 2) }], over);
   tableView(document.getElementById("tblInvoices"), [
     { label: "Supplier", key: "supplier_code" }, { label: "Invoice", key: "invoice_number" }, { label: "Date", key: "invoice_date" },
     { label: "Status", render: r => statusChip(r.audit_status) }, { label: "Lines above contract", num: true, key: "overbilled_lines" },
